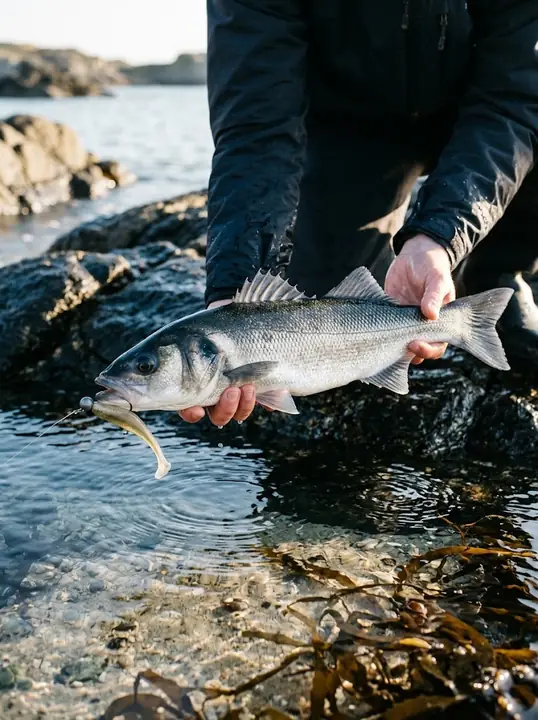
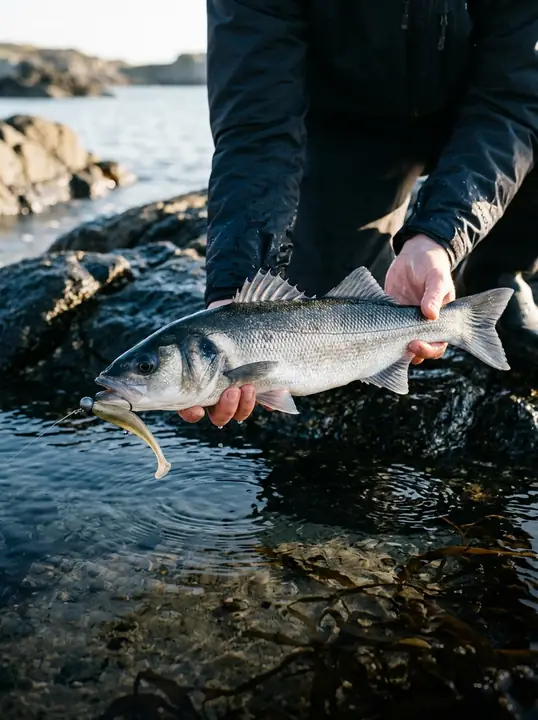
Photos Q7 : originaux du générateur intégrés (bar corrigé compris)
Claude-Session: https://claude.ai/code/session_012YoZxq9fP3Y2tP8J77hw9T

diff --git a/docs/design/REFERENCES.md b/docs/design/REFERENCES.md
@@ -38,10 +38,10 @@
 
 | Photo | Diagnostic | Remplacement demandé | Statut |
 | --- | --- | --- | --- |
-| `lieu-noir-boudin` | même cadrage que `lieu-jaune-boudin` et `bar-boudin` : cartes d'espèces indistinctes | lieu noir de jigging sur le pont, de côté, jig accroché, 3:4 | REÇUE le 20 nov. → `lieu-noir-pont-jig` ; résolution provisoire (765 × 1 024) |
-| `bar-boudin` | idem | bar tenu au-dessus de l'eau claire, leurre souple, lumière rasante, 3:4 | REÇUE le 20 nov. → `bar-eau-claire` ; résolution provisoire (765 × 1 024) |
-| `silhouette-aube-rose` | presque identique à `silhouette-couchant` | platier découvert à marée basse avant l'aube, frontale rouge, 3:4 | REÇUE le 20 nov. → `platier-aube-frontale` ; résolution provisoire (765 × 1 024) |
-| `semi-rigide-gilets` | 4 vues en surplomb du semi-rigide, quasi identiques | jigging vertical vu de la console, sondeur à 60–80 m, 16:9 | REÇUE le 20 nov. → `jigging-console-sondeur` ; résolution provisoire (1 024 × 572) |
+| `lieu-noir-boudin` | même cadrage que `lieu-jaune-boudin` et `bar-boudin` : cartes d'espèces indistinctes | lieu noir de jigging sur le pont, de côté, jig accroché, 3:4 | REÇUE le 20 nov. → `lieu-noir-pont-jig` ; original 896 × 1 200 |
+| `bar-boudin` | idem | bar tenu au-dessus de l'eau claire, leurre souple, lumière rasante, 3:4 | REÇUE le 20 nov. → `bar-eau-claire` (version corrigée) ; original 896 × 1 200 |
+| `silhouette-aube-rose` | presque identique à `silhouette-couchant` | platier découvert à marée basse avant l'aube, frontale rouge, 3:4 | REÇUE le 20 nov. → `platier-aube-frontale` ; original 896 × 1 200 |
+| `semi-rigide-gilets` | 4 vues en surplomb du semi-rigide, quasi identiques | jigging vertical vu de la console, sondeur à 60–80 m, 16:9 | REÇUE le 20 nov. → `jigging-console-sondeur` ; original 1 376 × 768 |
 
 Prompts de génération détaillés, demandés par Félix le 20 nov. : `docs/design/PROMPTS-PHOTOS.md`.
 
@@ -57,6 +57,7 @@ Prompts de génération détaillés, demandés par Félix le 20 nov. : `docs/des
 - Les 4 rompent la répétition du cadrage « boudin » et des silhouettes. Les anciennes restent dans le catalogue, avec un champ `remplacee_par` : l'application V2 en ligne s'en sert encore. La V3 n'emploie que les nouvelles.
 - **Résolution** : les copies reçues dans la conversation font 1 024 px sur le grand côté, au lieu des 1 600 px demandés. Elles sont intégrées à titre provisoire (`resolution` dans le catalogue). Les originaux en pleine résolution, ou une version agrandie par le générateur, sont demandés à Félix. Un original plus petit n'est jamais agrandi par le script.
 - **2ᵉ envoi (20 nov., 6 h 18)** : une version corrigée du bar (nouvelle image) ; les trois autres sont identiques au premier envoi. Les quatre copies ne font que 512 px : la conversation réduit les images collées. Rien n'est remplacé ; le bar corrigé sera intégré dès que son original arrivera (demandé par Google Drive).
+- **3ᵉ envoi (20 nov., 13 h 46), en fichiers** : les originaux du générateur, 896 × 1 200 px (3:4) et 1 376 × 768 px (16:9), dont le bar corrigé. Ils remplacent les copies réduites. C'est la résolution native du générateur : le grand côté reste sous 1 600 px, et le fichier « -1600 » garde la taille d'origine, sans agrandissement.
 
 
 **Restriction d'usage, sans remplacement** : `phare-pointe-aube`, `abbaye-crepuscule`, `phare-tempete`, `granit-crique` et `port-crepuscule` ressemblent à des lieux réels reconnaissables. Ce sont des images générées : elles ne sont jamais montrées sur la fiche d'un spot, même avec la mention « Illustration », et servent seulement aux écrans généraux (lancement, états vides, BATEAU). En V2, la règle « jamais une image reconnaissable sur un spot nommé » les écartait déjà de la plupart des fiches.
